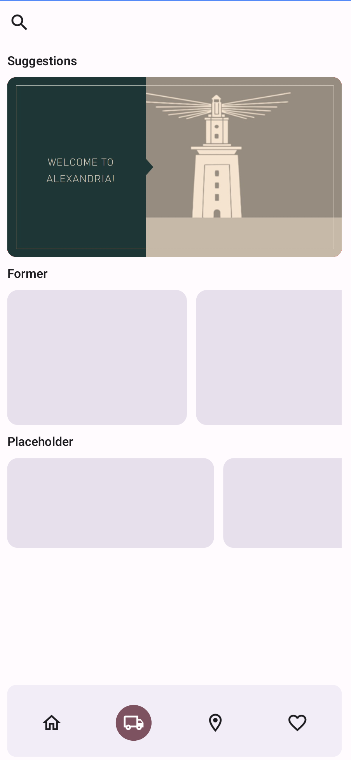
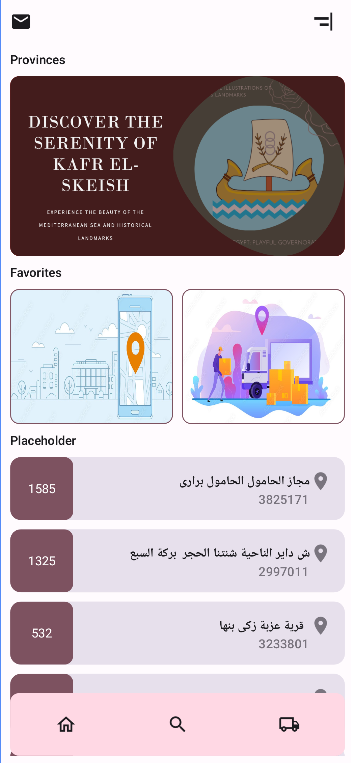
feat: add previously loaded post offices to home screen. - Modularized the HomeScreen UI components. - Added the GPS & Track shipment UI elements to the home screen. - Added previously loaded post offices list to the home screen.

diff --git a/app/src/main/kotlin/com/polendina/egyptpostalcode/presentation/screens/homescreen/HomeScreen.kt b/app/src/main/kotlin/com/polendina/egyptpostalcode/presentation/screens/homescreen/HomeScreen.kt
@@ -5,35 +5,28 @@ import androidx.compose.foundation.layout.Column
 import androidx.compose.foundation.layout.Row
 import androidx.compose.foundation.layout.fillMaxSize
 import androidx.compose.foundation.layout.fillMaxWidth
-import androidx.compose.foundation.layout.height
 import androidx.compose.foundation.layout.padding
-import androidx.compose.foundation.layout.width
-import androidx.compose.foundation.lazy.LazyListScope
-import androidx.compose.foundation.lazy.LazyRow
-import androidx.compose.foundation.lazy.items
-import androidx.compose.foundation.shape.RoundedCornerShape
 import androidx.compose.material.icons.Icons
 import androidx.compose.material.icons.filled.AlignHorizontalRight
 import androidx.compose.material.icons.filled.Email
-import androidx.compose.material.icons.filled.Search
-import androidx.compose.material3.BottomAppBar
-import androidx.compose.material3.Card
 import androidx.compose.material3.Icon
 import androidx.compose.material3.IconButton
 import androidx.compose.material3.Scaffold
-import androidx.compose.material3.Text
 import androidx.compose.runtime.Composable
 import androidx.compose.ui.Alignment
 import androidx.compose.ui.Modifier
-import androidx.compose.ui.draw.clip
+import androidx.compose.ui.res.painterResource
 import androidx.compose.ui.res.stringResource
-import androidx.compose.ui.text.TextStyle
-import androidx.compose.ui.text.font.FontWeight
 import androidx.compose.ui.tooling.preview.Preview
 import androidx.compose.ui.unit.dp
 import androidx.navigation.compose.rememberNavController
 import com.polendina.egyptpostalcode.BottomNavigationBar
 import com.polendina.egyptpostalcode.R
+import com.polendina.egyptpostalcode.offices
+import com.polendina.egyptpostalcode.presentation.screens.homescreen.components.FormerPostOfficeDisplay
+import com.polendina.egyptpostalcode.presentation.screens.homescreen.components.FormerQueries
+import com.polendina.egyptpostalcode.presentation.screens.homescreen.components.SectionHeader
+import com.polendina.egyptpostalcode.presentation.screens.homescreen.components.ShipmentService
 
 @Composable
 fun HomeScreen(
@@ -69,6 +62,7 @@ fun HomeScreen(
                 .padding(it)
                 .padding(10.dp)
         ) {
+            // TODO: Another (blue?) clickable header at the opposite side titled "All Locations" for example would be cool.
             SectionHeader(
                 text = stringResource(R.string.provinces),
                 modifier = Modifier
@@ -82,10 +76,16 @@ fun HomeScreen(
                 modifier = Modifier
                     .padding(vertical = 10.dp)
             )
-            FormerPostOffices (items = (0..10).toList()) {
-                JustMeh(
-                    // TODO: A better approach is possible. I guess I'm over abstracting things btw (the lazy row could be just used directly in here)
-                    content = it as Int
+            Row (
+                horizontalArrangement = Arrangement.spacedBy(10.dp)
+            ) {
+                ShipmentService(
+                    onClickCallback = { /*TODO*/ },
+                    painter = painterResource(id = R.drawable.gps)
+                )
+                ShipmentService(
+                    onClickCallback = { /*TODO*/ },
+                    painter = painterResource(id = R.drawable.shipment)
                 )
             }
             SectionHeader(
@@ -93,70 +93,17 @@ fun HomeScreen(
                 modifier = Modifier
                     .padding(vertical = 10.dp)
             )
-            FormerPostOffices(items = (0..10).toList()) {
-                AnotherMeh(
-                    content = it as Int
+            // TODO: Another (blue?) clickable header at the opposite side titled "All Locations" for example would be cool.
+            FormerQueries(items = offices) {
+                FormerPostOfficeDisplay(
+                    postOffice = it,
+                    postOfficeCardCallback = { },
+                    postOfficeIdCallback = { }
                 )
             }
         }
     }
 
-}
-
-@Composable
-fun FormerPostOffices(
-    modifier: Modifier = Modifier,
-    items: List<Any>,
-    composableContainer: @Composable LazyListScope.(Any) -> Unit
-) {
-    LazyRow (
-        horizontalArrangement = Arrangement.spacedBy(10.dp)
-    ) {
-        val lazyListScope = this // TODO: Junky implementation
-        items(items) {
-            composableContainer(lazyListScope, it)
-        }
-    }
-}
-
-@Composable
-fun JustMeh(
-    content: Int,
-    modifier: Modifier = Modifier
-) {
-   Card (
-       modifier = modifier
-           .height(150.dp)
-           .width(200.dp)
-   ) {
-   }
-}
-
-@Composable
-fun AnotherMeh(
-    content: Int,
-    modifier: Modifier = Modifier
-) {
-    Card (
-        modifier = modifier
-            .height(100.dp)
-            .width(230.dp)
-    ) {
-    }
-}
-
-@Composable
-fun SectionHeader(
-    text: String,
-    modifier: Modifier = Modifier
-) {
-    Text(
-        text = text,
-        style = TextStyle(
-            fontWeight = FontWeight.SemiBold
-        ),
-        modifier = modifier
-    )
 }
 
 @Preview(showBackground = true)

diff --git a/app/src/main/kotlin/com/polendina/egyptpostalcode/presentation/screens/homescreen/components/FormerPostOfficeDisplay.kt b/app/src/main/kotlin/com/polendina/egyptpostalcode/presentation/screens/homescreen/components/FormerPostOfficeDisplay.kt
@@ -1,0 +1,130 @@
+package com.polendina.egyptpostalcode.presentation.screens.homescreen.components
+
+import androidx.compose.foundation.background
+import androidx.compose.foundation.clickable
+import androidx.compose.foundation.layout.Arrangement
+import androidx.compose.foundation.layout.Box
+import androidx.compose.foundation.layout.Column
+import androidx.compose.foundation.layout.Row
+import androidx.compose.foundation.layout.fillMaxHeight
+import androidx.compose.foundation.layout.fillMaxWidth
+import androidx.compose.foundation.layout.height
+import androidx.compose.foundation.layout.padding
+import androidx.compose.foundation.layout.width
+import androidx.compose.foundation.lazy.LazyColumn
+import androidx.compose.foundation.lazy.LazyListScope
+import androidx.compose.foundation.lazy.items
+import androidx.compose.foundation.shape.RoundedCornerShape
+import androidx.compose.material.icons.Icons
+import androidx.compose.material.icons.filled.LocationOn
+import androidx.compose.material3.Card
+import androidx.compose.material3.Icon
+import androidx.compose.material3.MaterialTheme
+import androidx.compose.material3.Text
+import androidx.compose.runtime.Composable
+import androidx.compose.ui.Alignment
+import androidx.compose.ui.Modifier
+import androidx.compose.ui.draw.clip
+import androidx.compose.ui.text.TextStyle
+import androidx.compose.ui.text.font.FontWeight
+import androidx.compose.ui.unit.dp
+import com.polendina.egyptpostalcode.domain.model.PostOffice
+import java.util.function.IntToDoubleFunction
+
+/**
+ * Vertical column displaying formerly loaded post offices.
+ *
+ * @param modifier Modifier to be applied to the first nested parent composable.
+ * @param items List of the previously loaded post offices.
+ * @param content A composable responsible for display the post office metadata.
+ */
+@Composable
+fun FormerQueries(
+    modifier: Modifier = Modifier,
+    items: List<PostOffice>, // TODO: Load post offices from a Room database.
+    content: @Composable LazyListScope.(PostOffice) -> Unit
+) {
+    LazyColumn (
+        verticalArrangement = Arrangement.spacedBy(10.dp)
+    ) {
+        val lazyListScope = this // FIXME: Janky implementation
+        items(items) {
+            content(lazyListScope, it)
+        }
+    }
+}
+
+/**
+ * Display previously loaded post offices that were saved at local database.
+ *
+ * @param postOffice The previously loaded post office.
+ * @param modifier Modifier to be applied to the nested parent composable.
+ */
+@Composable
+fun FormerPostOfficeDisplay(
+    postOffice: PostOffice,
+    modifier: Modifier = Modifier,
+    postOfficeCardCallback: (PostOffice) -> Unit,
+    postOfficeIdCallback: (String) -> Unit
+) {
+    Card (
+        modifier = modifier
+            .height(70.dp)
+            .fillMaxWidth()
+            .clickable { postOfficeCardCallback(postOffice) }
+    ) {
+        Row (
+            horizontalArrangement = Arrangement.SpaceBetween,
+            modifier = Modifier
+                .fillMaxWidth()
+        ) {
+            Box (
+                contentAlignment = Alignment.Center,
+                modifier = Modifier
+                    .clip(RoundedCornerShape(10.dp))
+                    .fillMaxHeight()
+                    .width(70.dp)
+                    .background(MaterialTheme.colorScheme.tertiary)
+                    .clickable { postOfficeIdCallback(postOffice.id) } // TODO: This should be assigned a clipboard paste to or something.
+            ) {
+                Text(
+                    text = postOffice.id,
+                    style = TextStyle(
+                        color = MaterialTheme.colorScheme.onPrimary
+                    )
+                )
+            }
+            Column (
+                horizontalAlignment = Alignment.End,
+                modifier = Modifier
+                    .padding(15.dp)
+            ) {
+                Row (
+                    verticalAlignment = Alignment.CenterVertically,
+                ) {
+                    Text(
+                        text = postOffice.address,
+                        style = TextStyle(
+                            color = MaterialTheme.colorScheme.onBackground,
+                            fontWeight = FontWeight.SemiBold
+                        ),
+                    )
+                    Icon(
+                        imageVector = Icons.Default.LocationOn,
+                        contentDescription = null,
+                        tint = MaterialTheme.colorScheme.outline
+                    )
+                }
+                Text(
+                    text = postOffice.tel,
+                    style = TextStyle(
+                        color = MaterialTheme.colorScheme.outline,
+                        fontWeight = FontWeight.Medium
+                    ),
+                    modifier = Modifier
+                        .padding(end = 25.dp)
+                )
+            }
+        }
+    }
+}

diff --git a/app/src/main/kotlin/com/polendina/egyptpostalcode/presentation/screens/homescreen/components/ShipmentService.kt b/app/src/main/kotlin/com/polendina/egyptpostalcode/presentation/screens/homescreen/components/ShipmentService.kt
@@ -1,0 +1,41 @@
+package com.polendina.egyptpostalcode.presentation.screens.homescreen.components
+
+import androidx.compose.foundation.Image
+import androidx.compose.foundation.border
+import androidx.compose.foundation.layout.RowScope
+import androidx.compose.foundation.layout.height
+import androidx.compose.foundation.layout.wrapContentWidth
+import androidx.compose.foundation.shape.RoundedCornerShape
+import androidx.compose.material3.Card
+import androidx.compose.material3.MaterialTheme
+import androidx.compose.runtime.Composable
+import androidx.compose.ui.Modifier
+import androidx.compose.ui.graphics.painter.Painter
+import androidx.compose.ui.layout.ContentScale
+import androidx.compose.ui.unit.dp
+
+@Composable
+fun RowScope.ShipmentService(
+    onClickCallback: () -> Unit,
+    painter: Painter,
+    modifier: Modifier = Modifier
+) {
+    Card (
+        modifier = modifier
+            .height(150.dp)
+            .wrapContentWidth()
+            .weight(1f)
+            .border(
+                width = 1.dp,
+                color = MaterialTheme.colorScheme.tertiary,
+                shape = RoundedCornerShape(10.dp)
+            )
+    ) {
+        Image(
+            painter = painter,
+            contentDescription = null,
+            contentScale = ContentScale.FillBounds
+        )
+    }
+}
+

diff --git a/app/src/main/kotlin/com/polendina/egyptpostalcode/presentation/screens/homescreen/components/SectionHeader.kt b/app/src/main/kotlin/com/polendina/egyptpostalcode/presentation/screens/homescreen/components/SectionHeader.kt
@@ -1,0 +1,21 @@
+package com.polendina.egyptpostalcode.presentation.screens.homescreen.components
+
+import androidx.compose.material3.Text
+import androidx.compose.runtime.Composable
+import androidx.compose.ui.Modifier
+import androidx.compose.ui.text.TextStyle
+import androidx.compose.ui.text.font.FontWeight
+
+@Composable
+fun SectionHeader(
+    text: String,
+    modifier: Modifier = Modifier
+) {
+    Text(
+        text = text,
+        style = TextStyle(
+            fontWeight = FontWeight.SemiBold
+        ),
+        modifier = modifier
+    )
+}

diff --git a/README.md b/README.md
@@ -14,6 +14,7 @@ A new FOSS variant of the [Egypt Postal Code - Egypt Post](https://play.google.c
     <img src="./media/HomeScreen.png" width="300" height="600"> &nbsp;
     <img src="./media/SearchScreen.png" width="300" height="600"> &nbsp;
     <img src="./media/BottomSheet.png" width="300" height="600"> &nbsp;
+    <img src="./media/Contact.png" width="300" height="600"> &nbsp;
 </span>
 
 ## Installation
